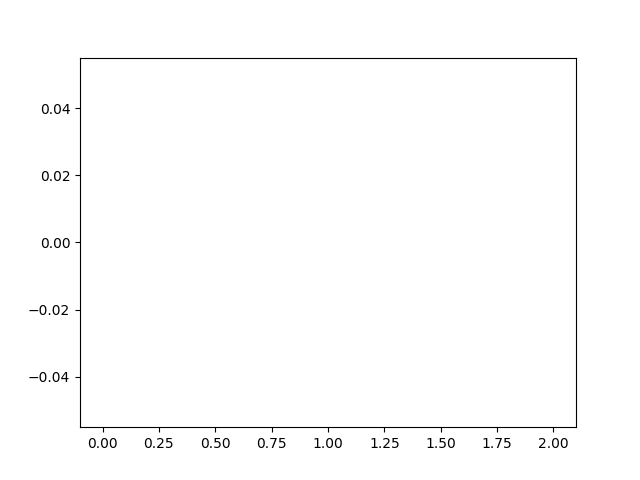
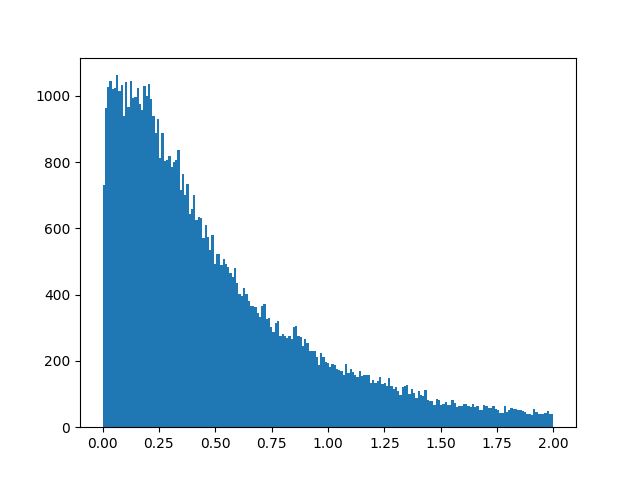
Added weighting for python and pyFrame evaluation.

diff --git a/examples/python/generator_comparison.py b/examples/python/generator_comparison.py
@@ -1,0 +1,87 @@
+import pyNUISANCE as pn
+import time
+import matplotlib.pyplot as plt
+import numpy as np
+
+# PRO SELECTA TESTS
+pn.configure()
+pn.ps.LoadFile("../../data/neutrino_data/ANL/CCQE/182176/analysis.cxx")
+
+nuwro_source = pn.EventSource("NUWRO-D2-ANL_77-numu/NUWRO.numu.numu_flux.ANL_1977_2horn_rescan.8652.evts.root")
+if not nuwro_source: sys.exit()
+
+neut_source = pn.EventSource("NEUT-D2-ANL_77-numu/NEUT.numu.numu_flux.ANL_1977_2horn_rescan.23500.evts.root")
+if not neut_source: sys.exit()
+
+# FRAME GENERATION
+def hm_muon(evt):
+  part = pn.ps.sel.OutPartHM(evt, pn.ps.pdg.kMuon)
+  if not part: return 0.0
+  return part.momentum().length() * pn.ps.units.GeV
+
+def hm_proton(evt):
+  part = pn.ps.sel.OutPartHM(evt, pn.ps.pdg.kProton)
+  if not part: return 0.0
+  return part.momentum().length() * pn.ps.units.GeV
+
+def hm_neutron(evt):
+  part = pn.ps.sel.OutPartHM(evt, pn.ps.pdg.kNeutron)
+  if not part: return 0.0
+  return part.momentum().length() * pn.ps.units.GeV
+
+def q0(evt):
+    mu = pn.ps.sel.OutPartHM(evt, pn.ps.pdg.kMuon)
+    nu = pn.ps.sel.Beam(evt, pn.ps.pdg.kNuMu)
+    part = pn.ps.proj.parts.q0(nu,mu)
+    if not mu or not nu: return 0
+    return part
+
+def q3(evt):
+    mu = pn.ps.sel.OutPartHM(evt, pn.ps.pdg.kMuon)
+    nu = pn.ps.sel.Beam(evt, pn.ps.pdg.kNuMu)
+    part = pn.ps.proj.parts.q3(nu,mu)
+    if not mu or not nu: return 0
+    return part
+
+def frame_plot_creator(name, source):
+    
+  global count
+  count = 0
+  def global_print(ev):
+    global count
+    count += 1
+    if (count % 1000 == 0): print(count)
+    return count
+
+  fr = pn.FrameGen(source, 100000)
+  fr.AddColumn("id", global_print)
+  fr.AddColumn("Q2", pn.ps.project.ANL_CCQE_182176_Project_Q2)
+  fr.AddColumn("custom_filter", pn.ps.filter.CUSTOM_FILTER)
+  fr.AddColumn("original_filter", pn.ps.filter.ANL_CCQE_182176_Filter)
+  fr.AddColumn("hm_muon", hm_muon)
+  fr.AddColumn("hm_proton", hm_proton)
+  fr.AddColumn("hm_neutron", hm_neutron)
+  fr.AddColumn("q0", q0)
+  fr.AddColumn("q3", q3)
+
+  fr.Limit(99999)
+  df = fr.Evaluate()
+
+  plt.hist(df.hm_muon, bins=np.linspace(0.0,2.0,200))
+  plt.savefig(f"hist_hmmuon_{name}.png")
+  plt.clf()
+
+  plt.scatter(df.hm_muon[df.original_filter > 0], df.hm_proton[df.original_filter > 0], s=2)
+  plt.savefig(f"muon_vs_proton_{name}.png")
+  plt.clf()
+
+  plt.scatter(df.q3, df.q0, s=2)
+  plt.scatter(df.q3[df.original_filter > 0], df.q0[df.original_filter > 0], s=2)
+  plt.savefig(f"q0_vs_q3_{name}.png")
+  plt.clf()
+
+  plt.hist(df.Table[:,2], bins=np.linspace(0.0,2.0,200))
+  plt.savefig(f"hist_fromframe_{name}.png")
+  plt.clf()
+
+  return df

diff --git a/examples/python/test_multithread.py b/examples/python/test_multithread.py
@@ -1,0 +1,65 @@
+import pyNUISANCE as pn
+import time
+import matplotlib.pyplot as plt
+import numpy as np
+from tqdm import tqdm
+import threading
+import concurrent.futures
+
+# PRO SELECTA TESTS
+pn.configure()
+pn.ps.LoadFile("../../data/neutrino_data/ANL/CCQE/182176/analysis.cxx")
+
+print(pn.ps.project.ANL_CCQE_182176_Project_Q2)
+
+anlsetup = { "measurement": "ANL_Analysis_mycustomtag",
+                "release": "ANL/CCQE/182176/",
+                "table": "EventCounts-Q2"}
+anl_handler = pn.Measurement(anlsetup)
+
+def thread_check(filename, handler):
+
+    original = handler.CreateProjection("original")
+    neut_source = pn.EventSource(filename)
+
+    for (e, cvw) in tqdm (neut_source, desc="[INFO] : Processing Record "):
+        f = handler.FillProjectionFromEvent( original, e )
+    
+    return original["mc"].value
+
+master_list = [] # This list will hold all the generated lists
+
+# Using ThreadPoolExecutor to execute `generate_list` function in parallel
+with concurrent.futures.ThreadPoolExecutor() as executor:
+
+    futures = []
+    for filename in [
+        "NEUT-D2-ANL_77-numu/NEUT.numu.numu_flux.ANL_1977_2horn_rescan.23500.evts.root",
+        "NUWRO-D2-ANL_77-numu/NUWRO.numu.numu_flux.ANL_1977_2horn_rescan.8652.evts.root"
+    ]:
+        futures.append( executor.submit(thread_check, filename, anl_handler ))
+    
+    # Collecting results as they are completed
+    for future in concurrent.futures.as_completed(futures):
+        # Adding the result (a list) to the master list
+        master_list.append(future.result())
+
+print(master_list)
+
+
+# Using ThreadPoolExecutor to execute `generate_list` function in parallel
+with concurrent.futures.ThreadPoolExecutor() as executor:
+
+    futures = []
+    for filename in [
+        "NEUT-D2-ANL_77-numu/NEUT.numu.numu_flux.ANL_1977_2horn_rescan.23500.evts.root",
+        "NEUT-D2-ANL_77-numu/NEUT.numu.numu_flux.ANL_1977_2horn_rescan.23500.evts.root"
+    ]:
+        futures.append( executor.submit(thread_check, filename, anl_handler ))
+    
+    # Collecting results as they are completed
+    for future in concurrent.futures.as_completed(futures):
+        # Adding the result (a list) to the master list
+        master_list.append(future.result())
+
+print(master_list)

diff --git a/src/nuis/python/pyWeightCalc.h b/src/nuis/python/pyWeightCalc.h
@@ -1,0 +1,90 @@
+#pragma once
+
+#include <functional>
+#include <iostream>
+#include <string>
+#include <vector>
+
+#include <pybind11/pybind11.h>
+#include <pybind11/stl.h>
+#include "pybind11/stl_bind.h"
+
+#include "yaml-cpp/yaml.h"
+
+#include "pybind11/pybind11.h"
+#include "pybind11/stl.h"
+#include "pybind11/stl_bind.h"
+#include <pybind11/pybind11.h>
+#include <pybind11/functional.h>
+#include <pybind11/stl.h>
+#include <pybind11/eigen.h>
+
+#include "spdlog/spdlog.h"
+
+#include "nuis/frame/FrameGen.h"
+#include "nuis/frame/Frame.h"
+
+#include "nuis/weightcalc/IWeightCalc.h"
+#include "nuis/weightcalc/WeightCalcFactory.h"
+
+#include "nuis/python/pyEventInput.h"
+
+namespace py = pybind11;
+
+
+namespace nuis {
+
+// Only supporting simple for now
+struct pyWeightCalc {
+
+  pyWeightCalc(){};
+
+  explicit pyWeightCalc(IWeightCalcHM3MapPtr p){
+    calc = p;
+  }
+  
+  double CalcWeight(HepMC3::GenEvent const & ev) {
+    return calc->CalcWeight(ev);
+  }
+
+  void SetParameters(std::map<std::string, double> const & par) {
+    calc->SetParameters(par);
+  }
+
+  double operator()(HepMC3::GenEvent const & ev){
+    return CalcWeight(ev);
+  }
+
+  IWeightCalcHM3MapPtr calc;
+};
+
+struct pyWeightCalcFactory {
+  
+  pyWeightCalcFactory() {}
+
+  pyWeightCalc Make(pyNormalizedEventSource& evs, YAML::Node const &cfg = {}) {
+    auto calcs = wfact.Make(evs.evs, cfg);
+    return pyWeightCalc(calcs);
+  }
+
+  nuis::WeightCalcFactory wfact;
+};
+}
+
+void init_weightcalc(py::module &m) {
+
+  m.doc() = "NUISANCE implementation in python";
+
+  py::class_<pyWeightCalc>(m, "WeightCalc")
+      .def(py::init<>())
+      .def("CalcWeight", &nuis::pyWeightCalc::CalcWeight)
+      .def("SetParameters", &nuis::pyWeightCalc::SetParameters)
+      .def("__call__", &nuis::pyWeightCalc::operator());
+
+
+  py::class_<pyWeightCalcFactory>(m, "WeightCalcFactory")
+      .def(py::init<>())
+      .def("Make", &nuis::pyWeightCalcFactory::Make);
+
+}
+

diff --git a/examples/python/test_weighting.py b/examples/python/test_weighting.py
@@ -1,0 +1,53 @@
+import pyNUISANCE as pn
+import time
+import matplotlib.pyplot as plt
+import numpy as np
+
+# PRO SELECTA TESTS
+pn.configure()
+
+neut_source = pn.EventSource("NEUT-D2-ANL_77-numu/NEUT.numu.numu_flux.ANL_1977_2horn_rescan.23500.evts.root")
+if not neut_source: sys.exit()
+
+weightcalc = pn.WeightCalcFactory().Make(neut_source, {"neut_cardname": "neut.card"})
+
+weightcalc.SetParameters(
+  {"MaCCQE": -2}
+)
+
+for e, cvw in neut_source:
+  print(weightcalc(e))
+  break
+
+fr = pn.FrameGen(neut_source, 100000)
+fr.Limit(100000)
+fr.AddColumn("weight", weightcalc)
+df = fr.Evaluate()
+
+print(df["weight"])
+
+# plt.hist(df["weight"])
+# plt.show()
+# plt.clf
+
+
+# Run multiple evaluations to build event by event splines
+weightlist = []
+parlist    = []
+for val in np.linspace(-3.0,3.0,11):
+
+  weightcalc.SetParameters(
+    {"MaCCQE": val}
+  )
+
+  weightset = fr.Evaluate()["weight"]
+  weightlist.append(weightset)
+
+  p = np.empty(len(weightset))
+  p.fill(val)
+  parlist.append( p )
+  
+
+plt.scatter( parlist, weightlist, s=2 )
+plt.savefig("weightlist.png")
+plt.clf()

diff --git a/examples/python/test_proselecta.py b/examples/python/test_proselecta.py
@@ -17,8 +17,8 @@ local_func = pn.ps.project.ANL_CCQE_182176_Project_Q2
 nuwro_source = pn.EventSource("NUWRO-D2-ANL_77-numu/NUWRO.numu.numu_flux.ANL_1977_2horn_rescan.8652.evts.root")
 if not nuwro_source: sys.exit()
 
-# neut_source = pn.EventSource("NEUT-D2-ANL_77-numu/NEUT.numu.numu_flux.ANL_1977_2horn_rescan.23500.evts.root")
-# if not neut_source: sys.exit()
+neut_source = pn.EventSource("NEUT-D2-ANL_77-numu/NEUT.numu.numu_flux.ANL_1977_2horn_rescan.23500.evts.root")
+if not neut_source: sys.exit()
 
 # CUSTOM EVENT LOOP
 anlsetup = { "measurement": "ANL_Analysis_mycustomtag",
